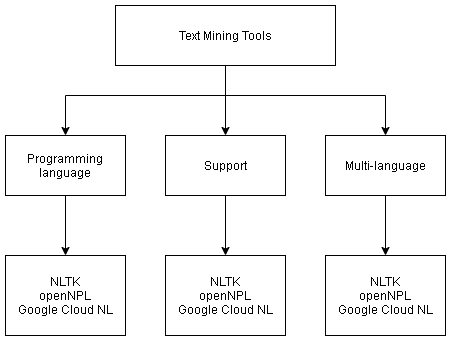
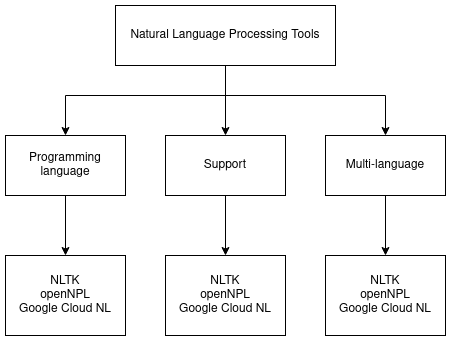
Fix report based on review

diff --git a/report/ch3/chapter3.tex b/report/ch3/chapter3.tex
@@ -14,26 +14,26 @@ This will help understand the opportunity value in a well defined manner.
 The five key stages, that compose the model defined by Koen\cite{koen2001providing}, were used to define the opportunity behind this project.
 
 \begin{itemize}
-    \item Opportunity identification - The opportunity was identified by a member of the deaf community.
-    He claimed that there were no solution to help the process of explaining a given concept using sign language.
+    \item \textbf{Opportunity identification} - The opportunity was identified by a member of the deaf community.
+    He claimed that there were no solutions to help the process of explaining a given concept using sign language.
     The lexicon of \gls{LGP} is quite small so most words don't have a direct translation, therefore it is required to use the available gestures to explain them.
 
-    \item Opportunity analysis - When analyzing the market, the only tools that have some similarities are the sign language dictionaries but they have some limitation that make it impossible to be a viable solution.
-    One of this limitations is that a translation to be added requires that a person is recorded performing the signs required to reproduce the word or expression.
+    \item \textbf{Opportunity analysis} - When analyzing the market, the only tools that have some similarities are the sign language dictionaries but they have some limitations that make it impossible to be a viable solution.
+    One of these limitations is that a translation to be added requires that a person is recorded performing the signs required to reproduce the word or expression.
     Another limitation of those dictionaries is the lack of translations for word from the scientific domain.
 
-    \item Idea creation - In this stage, some ideas were formulated for a solution that targets the identified opportunity and is a better fit over the other alternatives analyzed.
+    \item \textbf{Idea creation} - In this stage, some ideas were formulated for a solution that targets the identified opportunity and is a better fit over the other alternatives analyzed.
     One idea is that the solution to be developed makes the process of explaining a concept automatic.
     For this, the explanation can be found somewhere online and it is possible to obtain it using information retrieval, information extraction and text mining techniques.
     To make the obtained explanation viable to be presented to a member of the deaf community it would be better to translate it to \gls{LGP}.
     For this, there is another GILT project that is already capable of performing this translation and the \gls{API} behind it can be used in this solution.
 
-    \item Idea selection - In this stage, the goal was to take all the possible ideas an approaches in a single one that fulfills the necessary requirements.
+    \item \textbf{Idea selection} - In this stage, the goal was to take all the possible ideas and approaches into a single one that fulfills the necessary requirements.
     The resulting idea is to develop an automatic interpretation system having the needs of the deaf community in mind.
     This system will use Information retrieval, information extraction and text mining to generate the explanation of a given word or expression.
     It will also translate said explanation to \gls{LGP}.
 
-    \item Concept definition - After having the idea selected the next step is to define the objectives needed to achieve it.
+    \item \textbf{Concept definition} - After having the idea selected, the next step is to define the objectives needed to achieve it.
     The goals of this project are to develop an \gls{API} capable of generating the explanation of a given concept and a web application that will use this, and another \gls{API} to help the deaf community in the process of concept explanation.
 
 \end{itemize}
@@ -63,7 +63,7 @@ With the goal of helping the process of concept explanation, with focus on the i
 
 \section{Business Model Canvas}
 
-In order to ensure a solid structuring of the various business characteristics is necessary to use tools that help in the strategic management planning.
+In order to ensure a solid structuring of the various business characteristics, it's necessary to use tools that help in the strategic management planning.
 The tools to be used must help answer some question, such as:
 
 \begin{itemize}
@@ -74,7 +74,7 @@ The tools to be used must help answer some question, such as:
         \item What are the costs associated with our solution?
 \end{itemize}
 
-One of the tools that is able to help in this is the Business Model Canvas\cite{osterwalder2010business}, that provides 9 key blocs to aid in the process of planning the business concepts.
+One of the tools that is able to help in this is the Business Model Canvas\cite{osterwalder2010business}, that provides 9 key blocks to aid in the process of planning the business concepts.
 The 9 key blocks are:
 
 \begin{itemize}
@@ -101,7 +101,7 @@ In Figure~\ref{fig:CANVAS} it is illustrated the Business Model Canvas created f
 The solution developed has two customer segments, which are the Portuguese deaf community and the Portuguese Sign Language users.
 
 As for the product to be provided to this customers, it will be an application that aids in the learning of concepts by the users of Portuguese Sign Language.
-By doing so it will help to provide equal opportunities ans social inclusion of people with disabilities.
+By doing so it will help to provide equal opportunities and social inclusion of people with disabilities.
 
 To reach the target audience it should be presented in educational events and in events of the Portuguese Deaf Association or the Portuguese Federation of Deaf Associations.
 
@@ -111,10 +111,10 @@ In regards to the revenue this solution can get, it will have its origins in the
 
 When it comes to the resources required, the most important is the server to host the application to ensure maximum availability.
 
-To increase the changes for the solution to succeed, it is priority to design and develop the application with the special needs of the target audience in mind.
+To increase the chances for the solution to succeed, it is priority to design and develop the application with the special needs of the target audience in mind.
 As well as testing and adapting the solution if/when their needs fail to be met.
 
-This solution is in the best interest of education institution, the Portuguese Deaf Association, the Portuguese Federation of Deaf Associations and GILT so they will be the key partners.
+This solution is in the best interest of education institutions, the Portuguese Deaf Association, the Portuguese Federation of Deaf Associations and GILT so they will be the key partners.
 
 Finally, the costs will have their origin in the development and promotion of the application as well as any third-party application required to be used while escalating the solution.
 
@@ -128,19 +128,20 @@ Using this method will also reduce the bias in process of choice.
 
 This stage consists in creating the hierarchical decision tree where the criteria and viable alternatives are defined.
 In regard to the problem, it goal is to determine which natural language processing tools will provide the most value for the project.
+The created hierarchical decision tree is presented in the Figure~\ref{fig:AHP}.
 
 \begin{figure}[H]
 \centering
-\includegraphics[scale=0.5]{ch3/assets/AHP.png}
+\includegraphics[scale=0.6]{ch3/assets/AHP.png}
 \caption[Hierarchical Decision Tree]{Hierarchical Decision Tree}
 \label{fig:AHP}
 \end{figure}
 
-As observed in the Figure~\ref{fig:AHP}, the items of the first layer, corresponding to the primary objectives, had the following criteria behind their selection:
+As observed in the image above, the items of the first layer, corresponding to the primary objectives, had the following criteria behind their selection:
 \begin{itemize}
     \item \textbf{Programming language} - The programming language required to be used by the natural language processing tool when developing a solution (e.g. Python, Java, C, JavaScript, etc.).
     \item \textbf{Support} - The number and quality of reliable sources of information about each tool (e.g. Books, Documentation, Forums, etc.).
-    \item \textbf{Multi-language} - The compatibility of processing texts and performing tasks using natural languages other than English, with especial focus in Portuguese.
+    \item \textbf{Multi-language} - The compatibility of processing texts and performing tasks using natural languages other than English, with special focus in Portuguese.
 \end{itemize}
 
 The presented alternatives in the Figure~\ref{fig:AHP} are the selected natural language processing tools.
@@ -151,11 +152,11 @@ Also, as mentioned in Chapter~\ref{chap:Chapter2}, the book available for this t
 Furthermore, after a quick web search its easy to find examples of implementation of text mining approaches using this library.
 
 OpenNLP was chosen because, unlike NLTK, it represents a tool that is meant to be train by the user according to the project needs.
-Being a Java library was some relevance since its the second preferred programming language.
-The available documentation, that is maintained by the developing community, is not as good as NLTK but still easy to follow.
+Being a Java library has some relevance since its the second preferred programming language.
+The available documentation, that is maintained by the developing community, is not as good as NLTK but it's still easy to follow.
 
-Google Cloud NLP was chosen because, unlike the two upper mentioned, it represents a tool that is not open source and therefore presents payed solution that maybe more efficient.
-It can be used with multiplied programming languages such as, Python, PHP, Java, Go, etc.
+Google Cloud NLP was chosen because, unlike the two upper mentioned, it represents a tool that is not open source and therefore presents payed solutions that may be more efficient.
+It can be used with multiple programming languages such as, Python, PHP, Java, Go, etc.
 One important aspect of this tools, like other Google services, is the extensive and easy to follow documentation with code snippets that are able to be run in their services to have a better understanding them.
 
 There are countless others tools that are able to perform natural language processing, this were the selected ones since they were heavily recommended and can represent a good portion of them.
@@ -165,7 +166,7 @@ The tools here mentioned are described in more detail in Chapter~\ref{chap:Chapt
 \subsection{Stage 2 - Alternative and criteria comparison}
 
 This stage consists in defining the priorities between the elements of each hierarchical level.
-This is created using the Fundamental scale created by Saaty\cite{saaty1987analytic}.
+This is created using the Fundamental scale created by Saaty\cite{saaty1987analytic} that is shown in the Table~\ref{tab:scale}.
 
 \begin{table}[H]
 \caption{Fundamental scale \cite{saaty1987analytic}.}
@@ -190,8 +191,8 @@ This is created using the Fundamental scale created by Saaty\cite{saaty1987analy
 \end{tabular}
 \end{table}
 
-Each comparison between two criterion was defined using the values from the Table~\ref{tab:scale}, after pondering their relative importance.
-The following table was created to present the result of the comparisons made in regards to the criteria of the decision tree.
+Each comparison between two criterion was defined using the values from the table above, after pondering their relative importance.
+The Table~\ref{tab:criteria}, was created to present the result of the comparisons made in regards to the criteria of the decision tree.
 
 \begin{table}[H]
 \caption{Comparison Criteria.}
@@ -212,13 +213,13 @@ Sum & 6 & 5/3 & 9/2 \\
 \end{tabular}
 \end{table}
 
-With the information in the Table~\ref{tab:criteria} it is possible to assess that the criterion "Support" is of moderate importance (3) in comparison with the "Programming language" criterion, and it is of moderate importance (3) when compared to "Multi-language".
+With the information in the table above it is possible to assess that the criterion "Support" is of moderate importance (3) in comparison with the "Programming language" criterion, and it is of moderate importance (3) when compared to "Multi-language".
 Also the criterion "Multi-language" is of slightly more importance (2) when compared to the "Programming language" criterion.
 
 \subsection{Stage 3 - Relative priority of each criterion}
 
 This stage consists in obtaining the normalized criteria values and its relative priorities.
-To accomplish this, each value is divided by the sum of its respective column the sum of each column.
+To accomplish this, each value is divided by the sum of its respective column as shown in the Table~\ref{tab:normalization}.
 
 \begin{table}[H]
 \caption{Comparison Criteria Normalized.}
@@ -237,8 +238,8 @@ Multi-language & 2/6 & 1/5 & 2/9 \\
 \end{tabular}
 \end{table}
 
-Having normalized the criteria values as shown in Table~\ref{tab:normalization}, the next step is to calculate the priority order of each criterion.
-To accomplish this the arithmetic mean is used in each normalized criterion values previously obtained.
+Having normalized the criteria values, the next step is to calculate the priority order of each criterion.
+To accomplish this the arithmetic mean is used in each normalized criterion values previously obtained, as presented in Table~\ref{tab:relativePriority}.
 
 \begin{table}[H]
 \caption{Relative priority.}
@@ -257,7 +258,7 @@ Multi-language & 0.252 \\
 \end{tabular}
 \end{table}
 
-With the values from the Table~\ref{tab:relativePriority} is possible to conclude that the principal criterion for choosing one of the alternatives is "Support", followed by "Multi-language" and lastly "Programming language".
+With the values from the table above it's possible to conclude that the principal criterion for choosing one of the alternatives is "Support", followed by "Multi-language" and lastly "Programming language".
 
 \subsection{Stage 4 - Consistency evaluation of relative priorities}
 
@@ -269,14 +270,14 @@ To calculate the \gls{CR}, the \gls{CI} and the \gls{RI} are used as shown in th
     CR = \frac{CI}{RI}
 \end{equation}
 
-It is possible to calculate the \gls{CI} using the following equation:
+It is possible to calculate the \gls{CI} using the Equation~\ref{eqn:CI}.
 
 \begin{equation}
     \label{eqn:CI}
     CI = \frac{\lambda_{max}-n}{n-1}
 \end{equation}
 
-In the Equation~\ref{eqn:CI}, $n$ is the number of criteria and $\lambda_{max}$ is the largest eigenvalue of the matrix.
+In the above equation, $n$ is the number of criteria and $\lambda_{max}$ is the largest eigenvalue of the matrix.
 
 \begin{gather}
     \label{eqn:preLambda}
@@ -315,7 +316,7 @@ The next step is to calculate the \gls{CI} using the following equation:
     CI = \frac{3.05-3}{3-1} = 0.025
 \end{equation}
 
-The \gls{RI} can be obtained in the index table provided by Saaty\cite{saaty1987analytic}, were a part of it is presented bellow.
+The \gls{RI} can be obtained in the index table provided by Saaty\cite{saaty1987analytic}, were a part of it is presented in Table~\ref{tab:index}.
 
 \begin{table}[H]
 \caption{Index Table \cite{saaty1987analytic}.}
@@ -342,7 +343,7 @@ Since the obtained value 0.043 is less than 0.1 it is possible to conclude that 
 
 \subsection{Stage 5 - Construction of the parity comparison matrix for each criterion}
 
-This stage consists in creating a parity comparison matrix for each of the alternatives presented in the hierarchical decision tree, this are the natural language processing tools.
+This stage consists in creating a parity comparison matrix for each of the alternatives presented in the hierarchical decision tree, these are the natural language processing tools.
 The relative priorities were calculated as shown previously in Stage 3.
 
 \begin{table}[H]
@@ -453,7 +454,7 @@ Google Cloud NL & 0.568  \\
 \end{tabular}
 \end{table}
 
-To conclude this stage, the hierarchical decision tree was recreated with the all the calculated values, as shown in the following figure:
+To conclude this stage, the hierarchical decision tree was recreated with the all the calculated values, as shown in the Figure~\ref{fig:AHPWeighted}.
 
 \begin{figure}[H]
 \centering
@@ -488,6 +489,6 @@ This stage consists in obtaining the composite property for the alternatives, to
 
 \subsection{Stage 7 - Choice of alternative}
 
-This stage consists in analyze the obtained values and determine which is the best alternative.
+This stage consists in analyzing the obtained values and determine which is the best alternative.
 Looking at the obtained values, with the criteria selected and its calculated importance in mind, it is safe to affirm that the best option is NLTK since it obtained the highest valued (0.513).
 With the results from this process, the solution to be developed in this project will use NLTK as its natural language processing tool.
